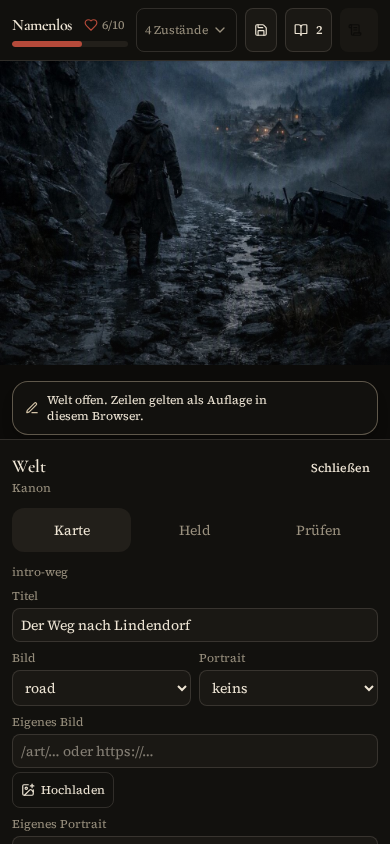
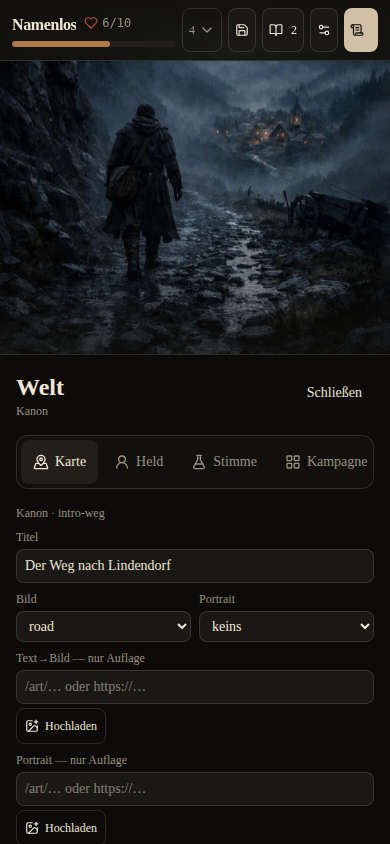
Kampagnen- und Quest-Editor im Weltwerkzeug
Dreizehn Werkzeuge lagen fertig gebaut, aber nur teilweise oder gar
nicht eingebunden: WeltGraph, WeltBibliothek, WeltRegeln, WeltBilder,
WeltZustaende, WeltQuestpfad, WeltPruefgraph, WeltMoral, WeltSpieler,
WeltFiguren, WeltZeitstrahl. Zwei neue Reiter ordnen sie:

- Kampagne (WeltKampagne.tsx): Kennzahlen (Szenen/leer/knapp) plus
  Graph, Bibliothek, Regeln, Bilder, Zustände als Unterfächer
- Quest (WeltQuest.tsx): Pfade (Testheld pro Nebenquest), Ablauf
  (Hauptfluss-Prüfgraph), Herkunft (Moralfragen-Editor)
- Partien-Reiter: Spielstände jetzt mit Ruf-Anzeige und
  Entscheidungs-Zeitstrahl statt nur Zeitstrahl

Die alte "Prüfen"-Ansicht enthielt Graph, Bibliothek, Regeln, Bilder,
Pfade und Ablauf bereits, nur ungeordnet übereinandergestapelt.
Entfernt, jetzt einmalig unter Kampagne/Quest; Prüfen bleibt bei
Netz-Kurzcheck, Heldensicht-Leck und JSON/Ablegen/GitHub.

Reiterleiste im Weltwerkzeug von starrem 4er-Raster auf scrollbare
Icon-Leiste mit 7 Reitern umgebaut. Zwei gleichnamige "Prüfen"-Knöpfe
(Reiter vs. Aktion) auf "Kanon prüfen" umbenannt.

scripts/check-hud-welt.mjs repariert: falscher Chromium-Pfad, fehlender
Login-Schritt fürs Spielleiter-Passwort, hartcodierter /workspace-Pfad
— alles vorbestehende Fehler, jetzt grün.

Geprüft: tsc sauber, eslint unverändert bei 16 Vorbefunden, check:knowledge
ok, check:questreihe ok, check:system ok, check:hud ok (repariert).
Engine, Runtime und Questlogik unberührt.

diff --git a/src/components/welt/WeltKampagne.tsx b/src/components/welt/WeltKampagne.tsx
@@ -1,0 +1,75 @@
+import { useState } from "react";
+import { Download, LayoutGrid, Library, ListChecks, ShieldCheck } from "lucide-react";
+import { WeltBibliothek } from "./WeltBibliothek";
+import { WeltGraph } from "./WeltGraph";
+import { WeltRegeln } from "./WeltRegeln";
+import { WeltBilder } from "./WeltBilder";
+import { WeltZustaende } from "./WeltZustaende";
+import { baueWeltGraph } from "@/game/welt-graph";
+
+type Unterfach = "graph" | "bibliothek" | "regeln" | "bilder" | "zustaende";
+
+const UNTERFAECHER: Array<{ id: Unterfach; name: string; Symbol: typeof LayoutGrid }> = [
+  { id: "graph", name: "Graph", Symbol: LayoutGrid },
+  { id: "bibliothek", name: "Bibliothek", Symbol: Library },
+  { id: "regeln", name: "Regeln", Symbol: ShieldCheck },
+  { id: "bilder", name: "Bilder", Symbol: Download },
+  { id: "zustaende", name: "Zustände", Symbol: ListChecks },
+];
+
+/**
+ * Kampagnen-Editor — der Überblick über das ganze Werk statt einer einzelnen
+ * Karte: Struktur (Graph), Register (Bibliothek), Selbstprüfung (Regeln,
+ * Bilder) und das Vokabular der Zustände. Schreibt nichts von selbst — jedes
+ * Unterfach öffnet höchstens eine Karte zur Bearbeitung an anderer Stelle.
+ */
+export function WeltKampagne({
+  aktuell,
+  onSeite,
+}: {
+  aktuell?: string;
+  onSeite?: (id: string) => void;
+}) {
+  const [unterfach, setUnterfach] = useState<Unterfach>("graph");
+  const graph = useState(() => baueWeltGraph())[0];
+
+  return (
+    <div>
+      <div className="mb-3 grid grid-cols-3 gap-1.5 text-center">
+        <Kennzahl wert={graph.knoten.length} label="Szenen" />
+        <Kennzahl wert={graph.leer} label="leer" warnung={graph.leer > 0} />
+        <Kennzahl wert={graph.kurz + graph.stichpunkt} label="knapp" warnung={graph.kurz + graph.stichpunkt > 0} />
+      </div>
+      <div className="mb-3 flex gap-1 overflow-x-auto rounded-md border border-border bg-surface/50 p-1">
+        {UNTERFAECHER.map(({ id, name, Symbol }) => (
+          <button
+            key={id}
+            type="button"
+            onClick={() => setUnterfach(id)}
+            aria-current={unterfach === id}
+            className={`inline-flex h-9 shrink-0 items-center gap-1.5 rounded-sm px-2.5 text-xs transition-colors duration-[var(--motion-quick)] ${
+              unterfach === id ? "bg-surface-2 text-fg" : "text-muted-fg hover:text-fg"
+            }`}
+          >
+            <Symbol className="size-3.5" aria-hidden />
+            {name}
+          </button>
+        ))}
+      </div>
+      {unterfach === "graph" ? <WeltGraph aktuell={aktuell} onPick={onSeite} /> : null}
+      {unterfach === "bibliothek" ? <WeltBibliothek onSeite={onSeite} /> : null}
+      {unterfach === "regeln" ? <WeltRegeln onSeite={onSeite} /> : null}
+      {unterfach === "bilder" ? <WeltBilder /> : null}
+      {unterfach === "zustaende" ? <WeltZustaende /> : null}
+    </div>
+  );
+}
+
+function Kennzahl({ wert, label, warnung }: { wert: number; label: string; warnung?: boolean }) {
+  return (
+    <div className="rounded-md border border-border bg-surface/50 px-2 py-2">
+      <p className={`font-display text-xl font-semibold tabular-nums ${warnung ? "text-warn" : "text-fg"}`}>{wert}</p>
+      <p className="text-[11px] uppercase tracking-wide text-muted-fg">{label}</p>
+    </div>
+  );
+}

diff --git a/src/components/welt/WeltEditor.tsx b/src/components/welt/WeltEditor.tsx
@@ -1,4 +1,5 @@
 import { useState } from "react";
+import { FlaskConical, LayoutGrid, MapPinned, ShieldCheck, ShieldQuestion, UserRound, Users2 } from "lucide-react";
 import { Button } from "@/components/ui/button";
 import type { EffektId, Held, SceneView } from "@/game/types";
 import type { Tageszeit } from "@/game/tageszeit";
@@ -16,8 +17,11 @@ import { WeltEntwurf } from "./WeltEntwurf";
 import { WeltHeld } from "./WeltHeld";
 import { WeltKarte } from "./WeltKarte";
 import { WeltPruefen } from "./WeltPruefen";
+import { WeltKampagne } from "./WeltKampagne";
+import { WeltQuest } from "./WeltQuest";
+import { WeltSpieler } from "./WeltSpieler";
 
-type Fach = "karte" | "held" | "stimme" | "pruefen";
+type Fach = "karte" | "held" | "stimme" | "kampagne" | "quest" | "spieler" | "pruefen";
 
 export function WeltEditor({
   szene,
@@ -140,21 +144,28 @@ export function WeltEditor({
             </Button>
           </div>
         ) : null}
-        <div className="mb-4 grid grid-cols-4 gap-1">
+        <div className="mb-4 flex gap-1 overflow-x-auto rounded-md border border-border bg-surface/40 p-1">
           {(
             [
-              ["karte", "Karte"],
-              ["held", "Held"],
-              ["stimme", "Stimme"],
-              ["pruefen", "Prüfen"],
+              ["karte", "Karte", MapPinned],
+              ["held", "Held", UserRound],
+              ["stimme", "Stimme", FlaskConical],
+              ["kampagne", "Kampagne", LayoutGrid],
+              ["quest", "Quest", ShieldQuestion],
+              ["spieler", "Partien", Users2],
+              ["pruefen", "Prüfen", ShieldCheck],
             ] as const
-          ).map(([id, titel]) => (
+          ).map(([id, titel, Symbol]) => (
             <button
               key={id}
               type="button"
-              className={`h-12 rounded-md text-sm ${fach === id ? "bg-surface-2 text-fg" : "text-muted-fg"}`}
+              className={`inline-flex h-11 shrink-0 items-center gap-1.5 whitespace-nowrap rounded-sm px-3 text-sm transition-colors duration-[var(--motion-quick)] ${
+                fach === id ? "bg-surface-2 text-fg" : "text-muted-fg hover:text-fg"
+              }`}
               onClick={() => setFach(id)}
+              aria-current={fach === id}
             >
+              <Symbol className="size-4" aria-hidden />
               {titel}
             </button>
           ))}
@@ -188,6 +199,11 @@ export function WeltEditor({
         {fach === "stimme" ? (
           <WeltEntwurf szene={sicht} auflage={sichtAuflage} schluessel={sichtKey} onChange={speichere} />
         ) : null}
+        {fach === "kampagne" ? <WeltKampagne aktuell={sicht?.id} onSeite={oeffneSeite} /> : null}
+        {fach === "quest" ? <WeltQuest /> : null}
+        {fach === "spieler" ? (
+          <WeltSpieler aktuelleName={held?.name} onLade={onLadeSpieler} onGeaendert={onSpielerGeaendert} />
+        ) : null}
         {fach === "pruefen" ? (
           <WeltPruefen
             szene={sicht}
@@ -195,7 +211,6 @@ export function WeltEditor({
             schluessel={sichtKey}
             held={held}
             onChange={speichere}
-            onSeite={oeffneSeite}
             seite
           />
         ) : null}

diff --git a/src/components/welt/WeltPruefen.tsx b/src/components/welt/WeltPruefen.tsx
@@ -10,13 +10,6 @@ import { redirectToLoginIfRequired } from "@/lib/app-data";
 import type { Held, SceneView } from "@/game/types";
 import { detectPlayerLeaks } from "@/game/gm/detectPlayerLeaks";
 import { mapHeldToPlayerHud } from "@/game/gm/mapHeldToPlayerHud";
-import { WeltBibliothek } from "./WeltBibliothek";
-import { WeltBilder } from "./WeltBilder";
-import { WeltGraph } from "./WeltGraph";
-import { WeltPruefgraph } from "./WeltPruefgraph";
-import { WeltQuestpfad } from "./WeltQuestpfad";
-import { WeltRegeln } from "./WeltRegeln";
-import { WeltZustaende } from "./WeltZustaende";
 
 const JsonMonaco = lazy(() => import("./JsonMonaco"));
 
@@ -49,7 +42,6 @@ export function WeltPruefen({
   schluessel = "",
   held = null,
   onChange,
-  onSeite,
   seite = false,
 }: {
   szene: SceneView | null;
@@ -57,7 +49,6 @@ export function WeltPruefen({
   schluessel?: string;
   held?: Held | null;
   onChange?: (next: WeltAuflage) => void;
-  onSeite?: (id: string) => void;
   seite?: boolean;
 }) {
   const haupt = modulFuerSzene(szene);
@@ -121,19 +112,10 @@ export function WeltPruefen({
           ) : null}
         </div>
       ) : null}
-      <WeltGraph aktuell={szene?.id} onPick={onSeite} />
-      <WeltPruefgraph />
-      <WeltQuestpfad />
-      <WeltBilder />
 
-      <details className="mt-4 rounded-sm border border-border px-3 py-2">
-        <summary className="cursor-pointer text-sm text-muted-fg">Bibliothek, Regeln, Zustände</summary>
-        <div className="mt-2">
-      <WeltBibliothek onSeite={onSeite} />
-      <WeltRegeln onSeite={onSeite} />
-      <WeltZustaende />
-        </div>
-      </details>
+      <p className="mt-3 text-xs text-muted-fg">
+        Graph, Bibliothek, Regeln, Bilder, Fragepfade und Ablauf liegen jetzt unter Kampagne und Quest.
+      </p>
 
       <details className="mt-3 rounded-sm border border-border px-3 py-2">
         <summary className="cursor-pointer text-sm text-muted-fg">JSON, Ablegen, GitHub</summary>

diff --git a/src/components/welt/WeltQuest.tsx b/src/components/welt/WeltQuest.tsx
@@ -1,0 +1,46 @@
+import { useState } from "react";
+import { GitBranch, Route, Sparkles } from "lucide-react";
+import { WeltQuestpfad } from "./WeltQuestpfad";
+import { WeltPruefgraph } from "./WeltPruefgraph";
+import { WeltMoral } from "./WeltMoral";
+
+type Unterfach = "pfade" | "fluss" | "herkunft";
+
+const UNTERFAECHER: Array<{ id: Unterfach; name: string; Symbol: typeof Route }> = [
+  { id: "pfade", name: "Pfade", Symbol: Route },
+  { id: "fluss", name: "Ablauf", Symbol: GitBranch },
+  { id: "herkunft", name: "Herkunft", Symbol: Sparkles },
+];
+
+/**
+ * Quest-Editor — prüft Nebenquests entlang eines Testhelden (Pfade),
+ * verfolgt den Hauptablauf Schritt für Schritt (Ablauf) und bearbeitet
+ * die Herkunftsfragen, die jede Partie eröffnen (Herkunft).
+ */
+export function WeltQuest() {
+  const [unterfach, setUnterfach] = useState<Unterfach>("pfade");
+
+  return (
+    <div>
+      <div className="mb-3 flex gap-1 overflow-x-auto rounded-md border border-border bg-surface/50 p-1">
+        {UNTERFAECHER.map(({ id, name, Symbol }) => (
+          <button
+            key={id}
+            type="button"
+            onClick={() => setUnterfach(id)}
+            aria-current={unterfach === id}
+            className={`inline-flex h-9 shrink-0 items-center gap-1.5 rounded-sm px-2.5 text-xs transition-colors duration-[var(--motion-quick)] ${
+              unterfach === id ? "bg-surface-2 text-fg" : "text-muted-fg hover:text-fg"
+            }`}
+          >
+            <Symbol className="size-3.5" aria-hidden />
+            {name}
+          </button>
+        ))}
+      </div>
+      {unterfach === "pfade" ? <WeltQuestpfad /> : null}
+      {unterfach === "fluss" ? <WeltPruefgraph /> : null}
+      {unterfach === "herkunft" ? <WeltMoral /> : null}
+    </div>
+  );
+}

diff --git a/src/components/welt/WeltSpieler.tsx b/src/components/welt/WeltSpieler.tsx
@@ -9,6 +9,7 @@ import {
   listSavedGameDetails,
   nameKey,
 } from "@/game/save";
+import { WeltFiguren } from "./WeltFiguren";
 import { WeltZeitstrahl } from "./WeltZeitstrahl";
 
 export function WeltSpieler({
@@ -141,7 +142,9 @@ export function WeltSpieler({
 
       {angesehen ? (
         <div className="mt-3 border-t border-border pt-2">
-          <p className="text-xs text-muted-fg">Log · {angesehen.name}</p>
+          <p className="text-xs text-muted-fg">Ruf · {angesehen.name}</p>
+          <WeltFiguren held={angesehen} />
+          <p className="mt-3 text-xs text-muted-fg">Log · {angesehen.name}</p>
           <WeltZeitstrahl held={angesehen} />
         </div>
       ) : null}

diff --git a/src/components/welt/WeltRegeln.tsx b/src/components/welt/WeltRegeln.tsx
@@ -27,7 +27,7 @@ export function WeltRegeln({ onSeite }: { onSeite?: (id: string) => void }) {
       <p className="text-xs text-muted-fg">Regel — liest Kanon, schreibt nichts.</p>
       <div className="mt-1 flex gap-2">
         <Button type="button" variant="secondary" className="h-9 px-3 text-xs" onClick={() => setAn(true)}>
-          Prüfen
+          Kanon prüfen
         </Button>
         {an ? (
           <Button type="button" variant="ghost" className="h-9 px-3 text-xs" onClick={bericht}>
